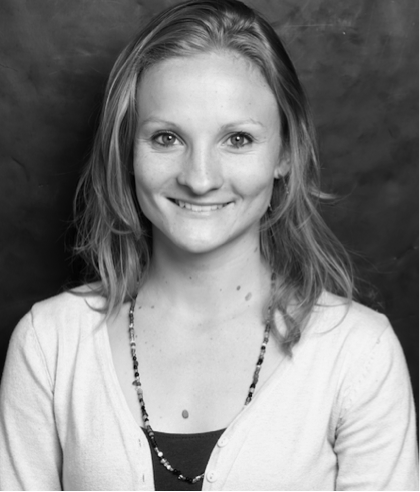
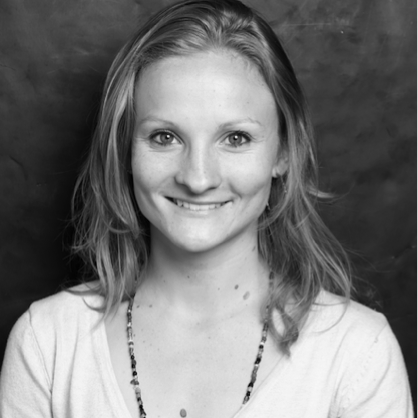
[images-people][xs]: cropped images on peopele page -refs #29

diff --git a/layouts/partials/people.html b/layouts/partials/people.html
@@ -77,7 +77,7 @@
 <!-- Laurie -->
 <div class="event">
   <div class="event-image">
-    <img src="{{ $.Site.BaseURL }}images/laurie.jpg" class="img-circular-square">
+    <img src="{{ $.Site.BaseURL }}images/laurie-cropped.png" class="img-circular-square">
   </div>
   <div class="event-content">
     <h3>LAURIE PARMA</h3>
